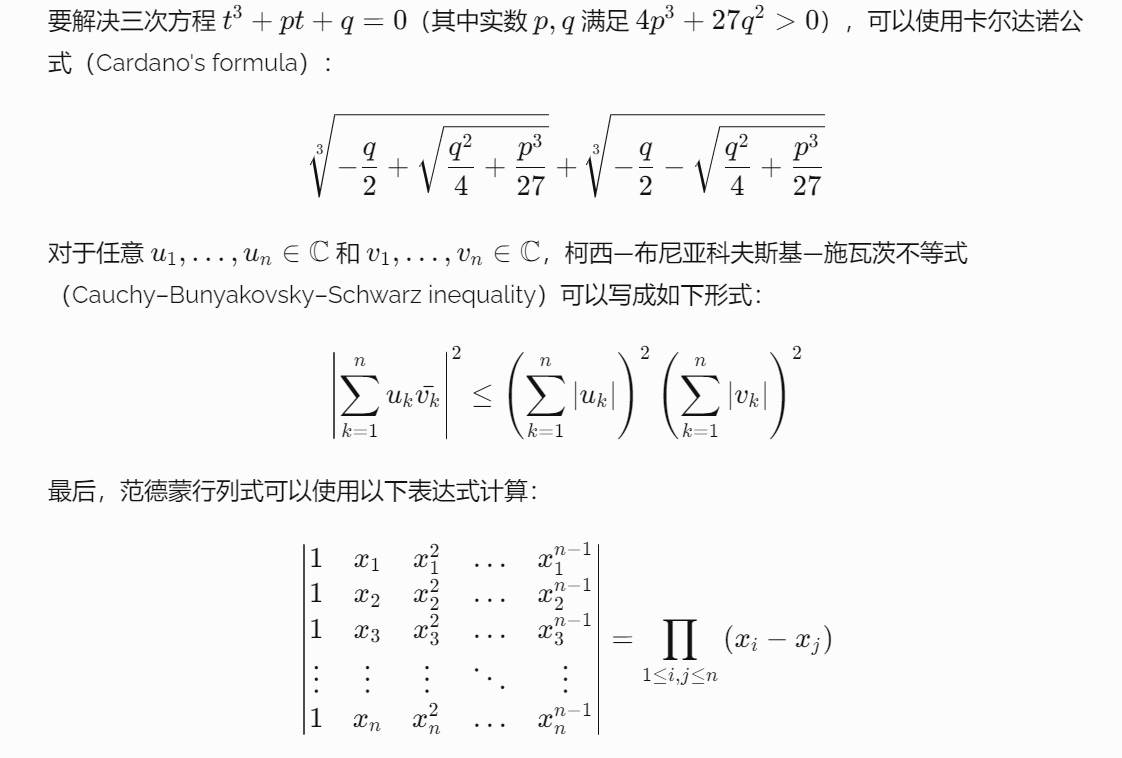
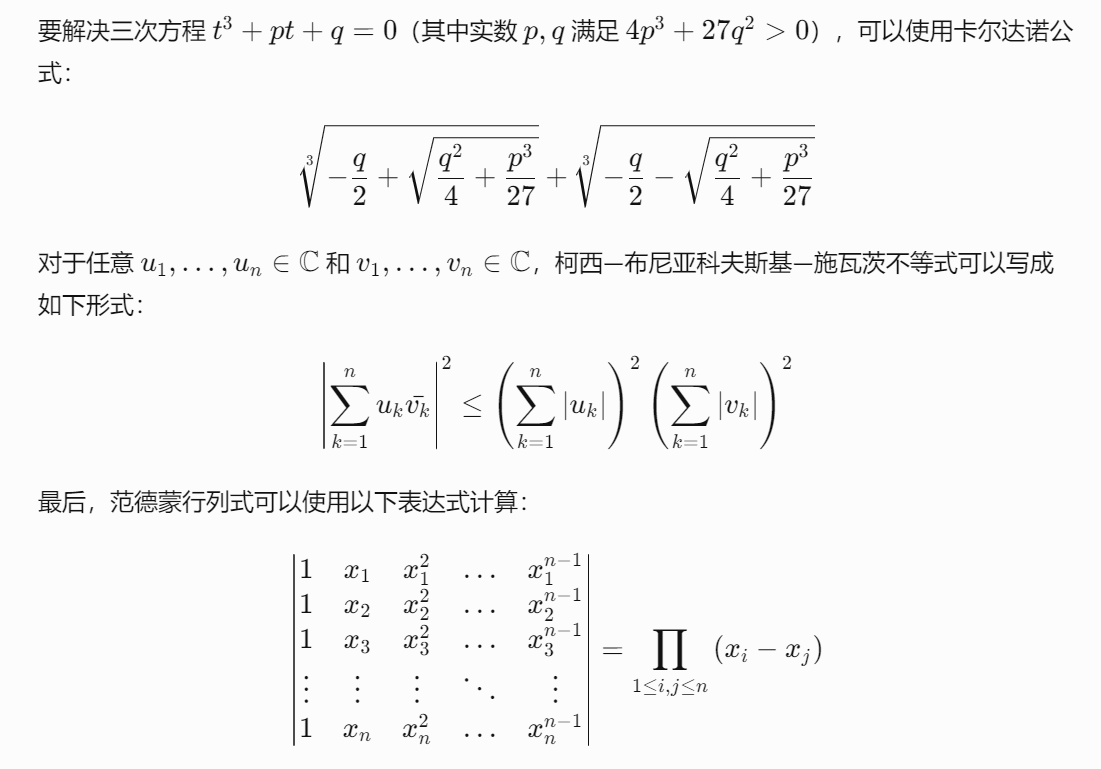
apply suggestion from code reviewer

diff --git a/files/zh-cn/learn/mathml/first_steps/three_famous_mathematical_formulas/index.md b/files/zh-cn/learn/mathml/first_steps/three_famous_mathematical_formulas/index.md
@@ -39,7 +39,7 @@ slug: Learn/MathML/First_steps/Three_famous_mathematical_formulas
 
 \begin{document}
 
-要解决三次方程 $t^3 + pt + q = 0$（其中实数 $p, q$ 满足 ${4p^3 + 27q^2} > 0$），可以使用卡尔达诺公式（Cardano's formula）：
+要解决三次方程 $t^3 + pt + q = 0$（其中实数 $p, q$ 满足 ${4p^3 + 27q^2} > 0$），可以使用卡尔达诺公式：
 
 \[
   \sqrt[{3}]{
@@ -52,7 +52,7 @@ slug: Learn/MathML/First_steps/Three_famous_mathematical_formulas
   }
 \]
 
-对于任意 $u_1, \dots, u_n \in \mathbb{C}$ 和 $v_1, \dots, v_n \in \mathbb{C}$，柯西—布尼亚科夫斯基—施瓦茨不等式（Cauchy–Bunyakovsky–Schwarz inequality）可以写成如下形式：
+对于任意 $u_1, \dots, u_n \in \mathbb{C}$ 和 $v_1, \dots, v_n \in \mathbb{C}$，柯西—布尼亚科夫斯基—施瓦茨不等式可以写成如下形式：
 
 \[
   \left| \sum_{k=1}^n {u_k \bar{v_k}} \right|^2
@@ -95,17 +95,14 @@ slug: Learn/MathML/First_steps/Three_famous_mathematical_formulas
   </head>
   <body class="htmlmathparagraph">
     <p>
-      要解决三次方程 ???（其中实数 ??? 满足
-      ???），可以使用卡尔达诺公式（Cardano's formula）：???
+      要解决三次方程 ???（其中实数 ??? 满足 ???），可以使用卡尔达诺公式：???
     </p>
 
     <p>
-      对于任意 ??? 和
-      ???，柯西—布尼亚科夫斯基—施瓦茨不等式（Cauchy–Bunyakovsky–Schwarz
-      inequality）可以写成如下形式：???
+      对于任意 ??? 和 ???，柯西—布尼亚科夫斯基—施瓦茨不等式可以写成如下形式：???
     </p>
 
-    <p>最后，范德蒙的行列式可以使用以下表达式计算：???</p>
+    <p>最后，范德蒙行列式可以使用以下表达式计算：???</p>
   </body>
 </html>
 ```
